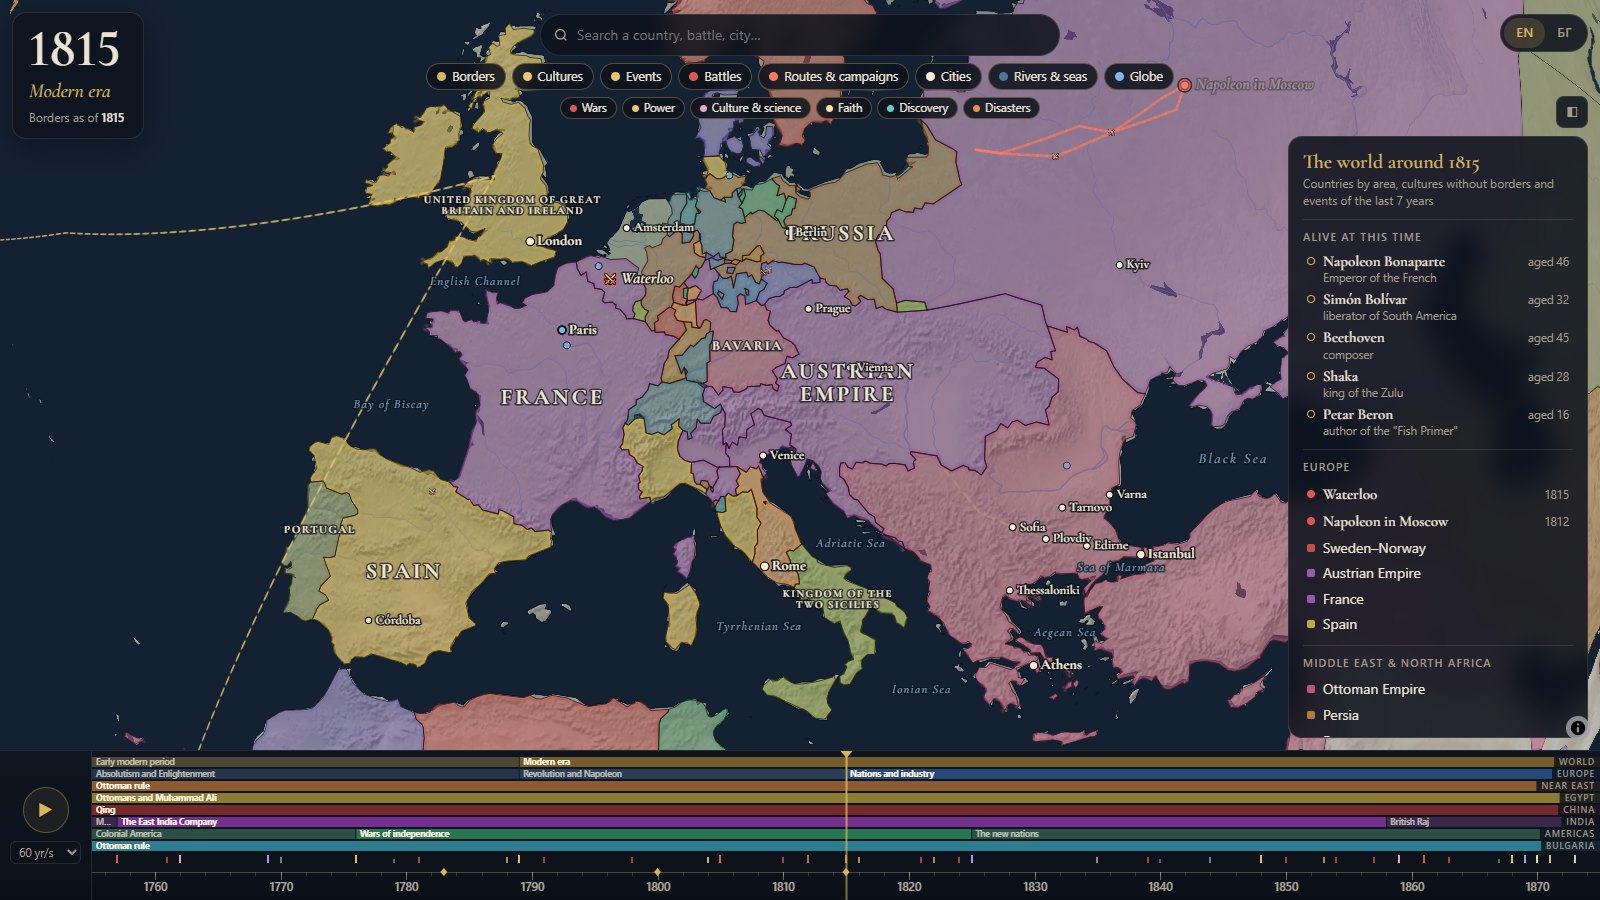
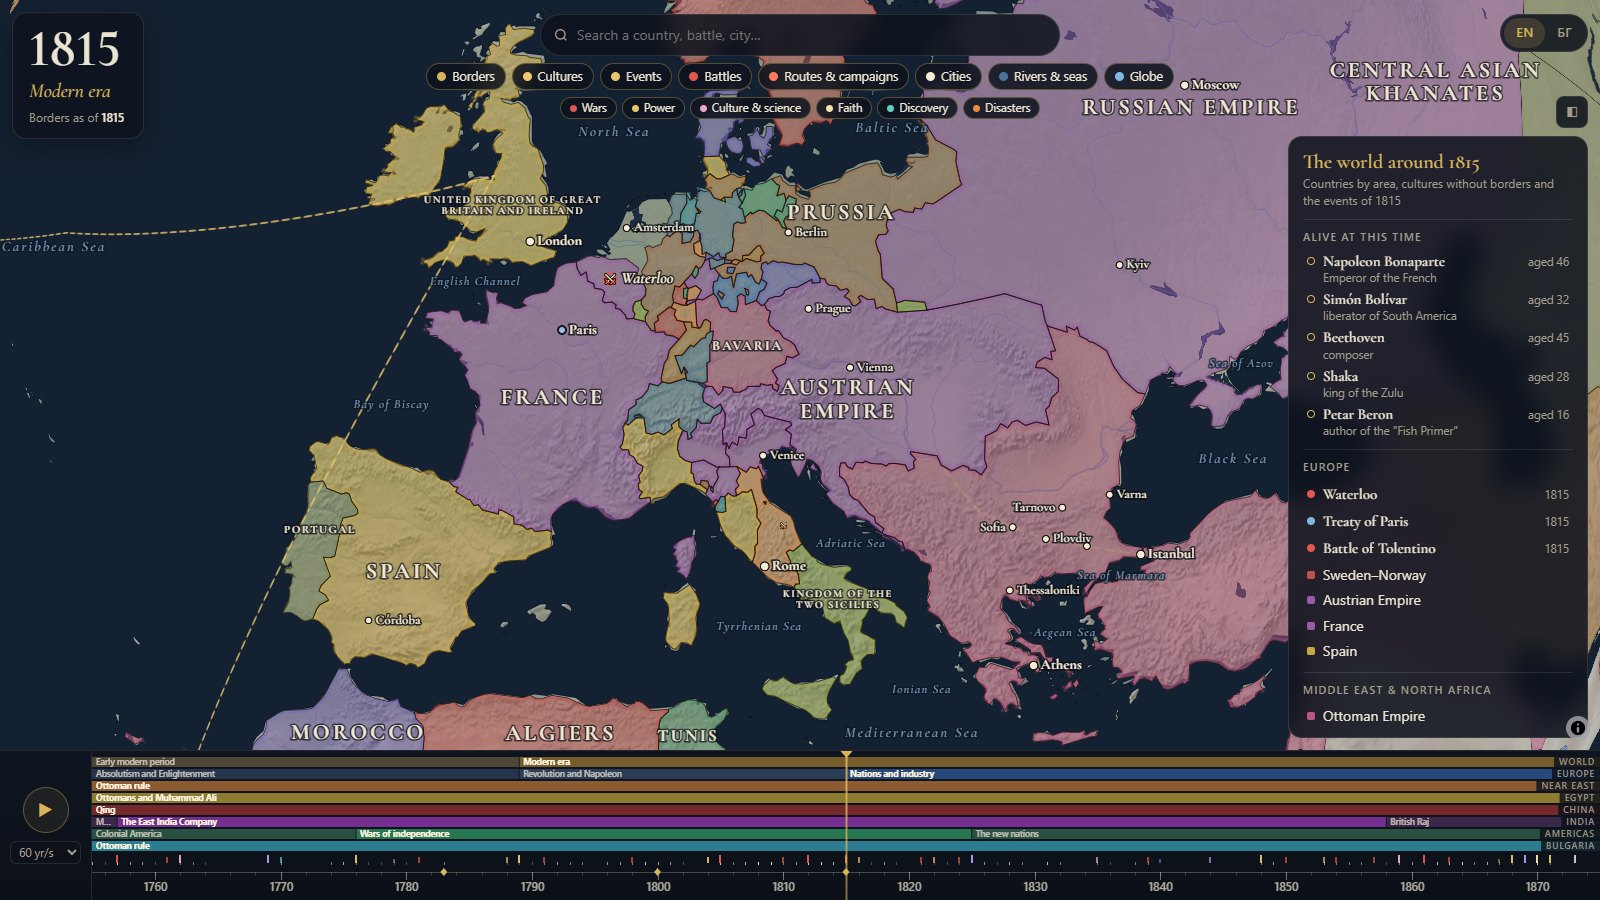
Sea names make way for cities; fresh README screenshots
Sea labels step aside from cities and events like state labels do, and the
same sea name is not repeated close by (one "Pacific Ocean" on a small globe).
The README screenshots are retaken with the cleaner labels.

diff --git a/public/js/map.js b/public/js/map.js
@@ -592,8 +592,11 @@ export function createMap({ container, canvas, data, initial, onPick, onSnapshot
         const font = `italic 500 ${size}px ${SERIF}`;
         const p = map.project([s.lon, s.lat]);
         const w = measure(name, font, spacing);
-        if (!freeIn(soft, p.x - w / 2, p.y - size / 2, p.x + w / 2, p.y + size / 2)) continue;
-        text(name, p.x, p.y, font, 'rgba(150,186,222,0.82)', spacing, 'center', 'rgba(10,20,34,0.7)');
+        if (repeated(name, p)) continue;
+        const at = softAt(p.x, p.y, w, size);
+        if (!at) continue;
+        remember(name, p);
+        text(name, at[0], at[1], font, 'rgba(150,186,222,0.82)', spacing, 'center', 'rgba(10,20,34,0.7)');
       }
     }
 
